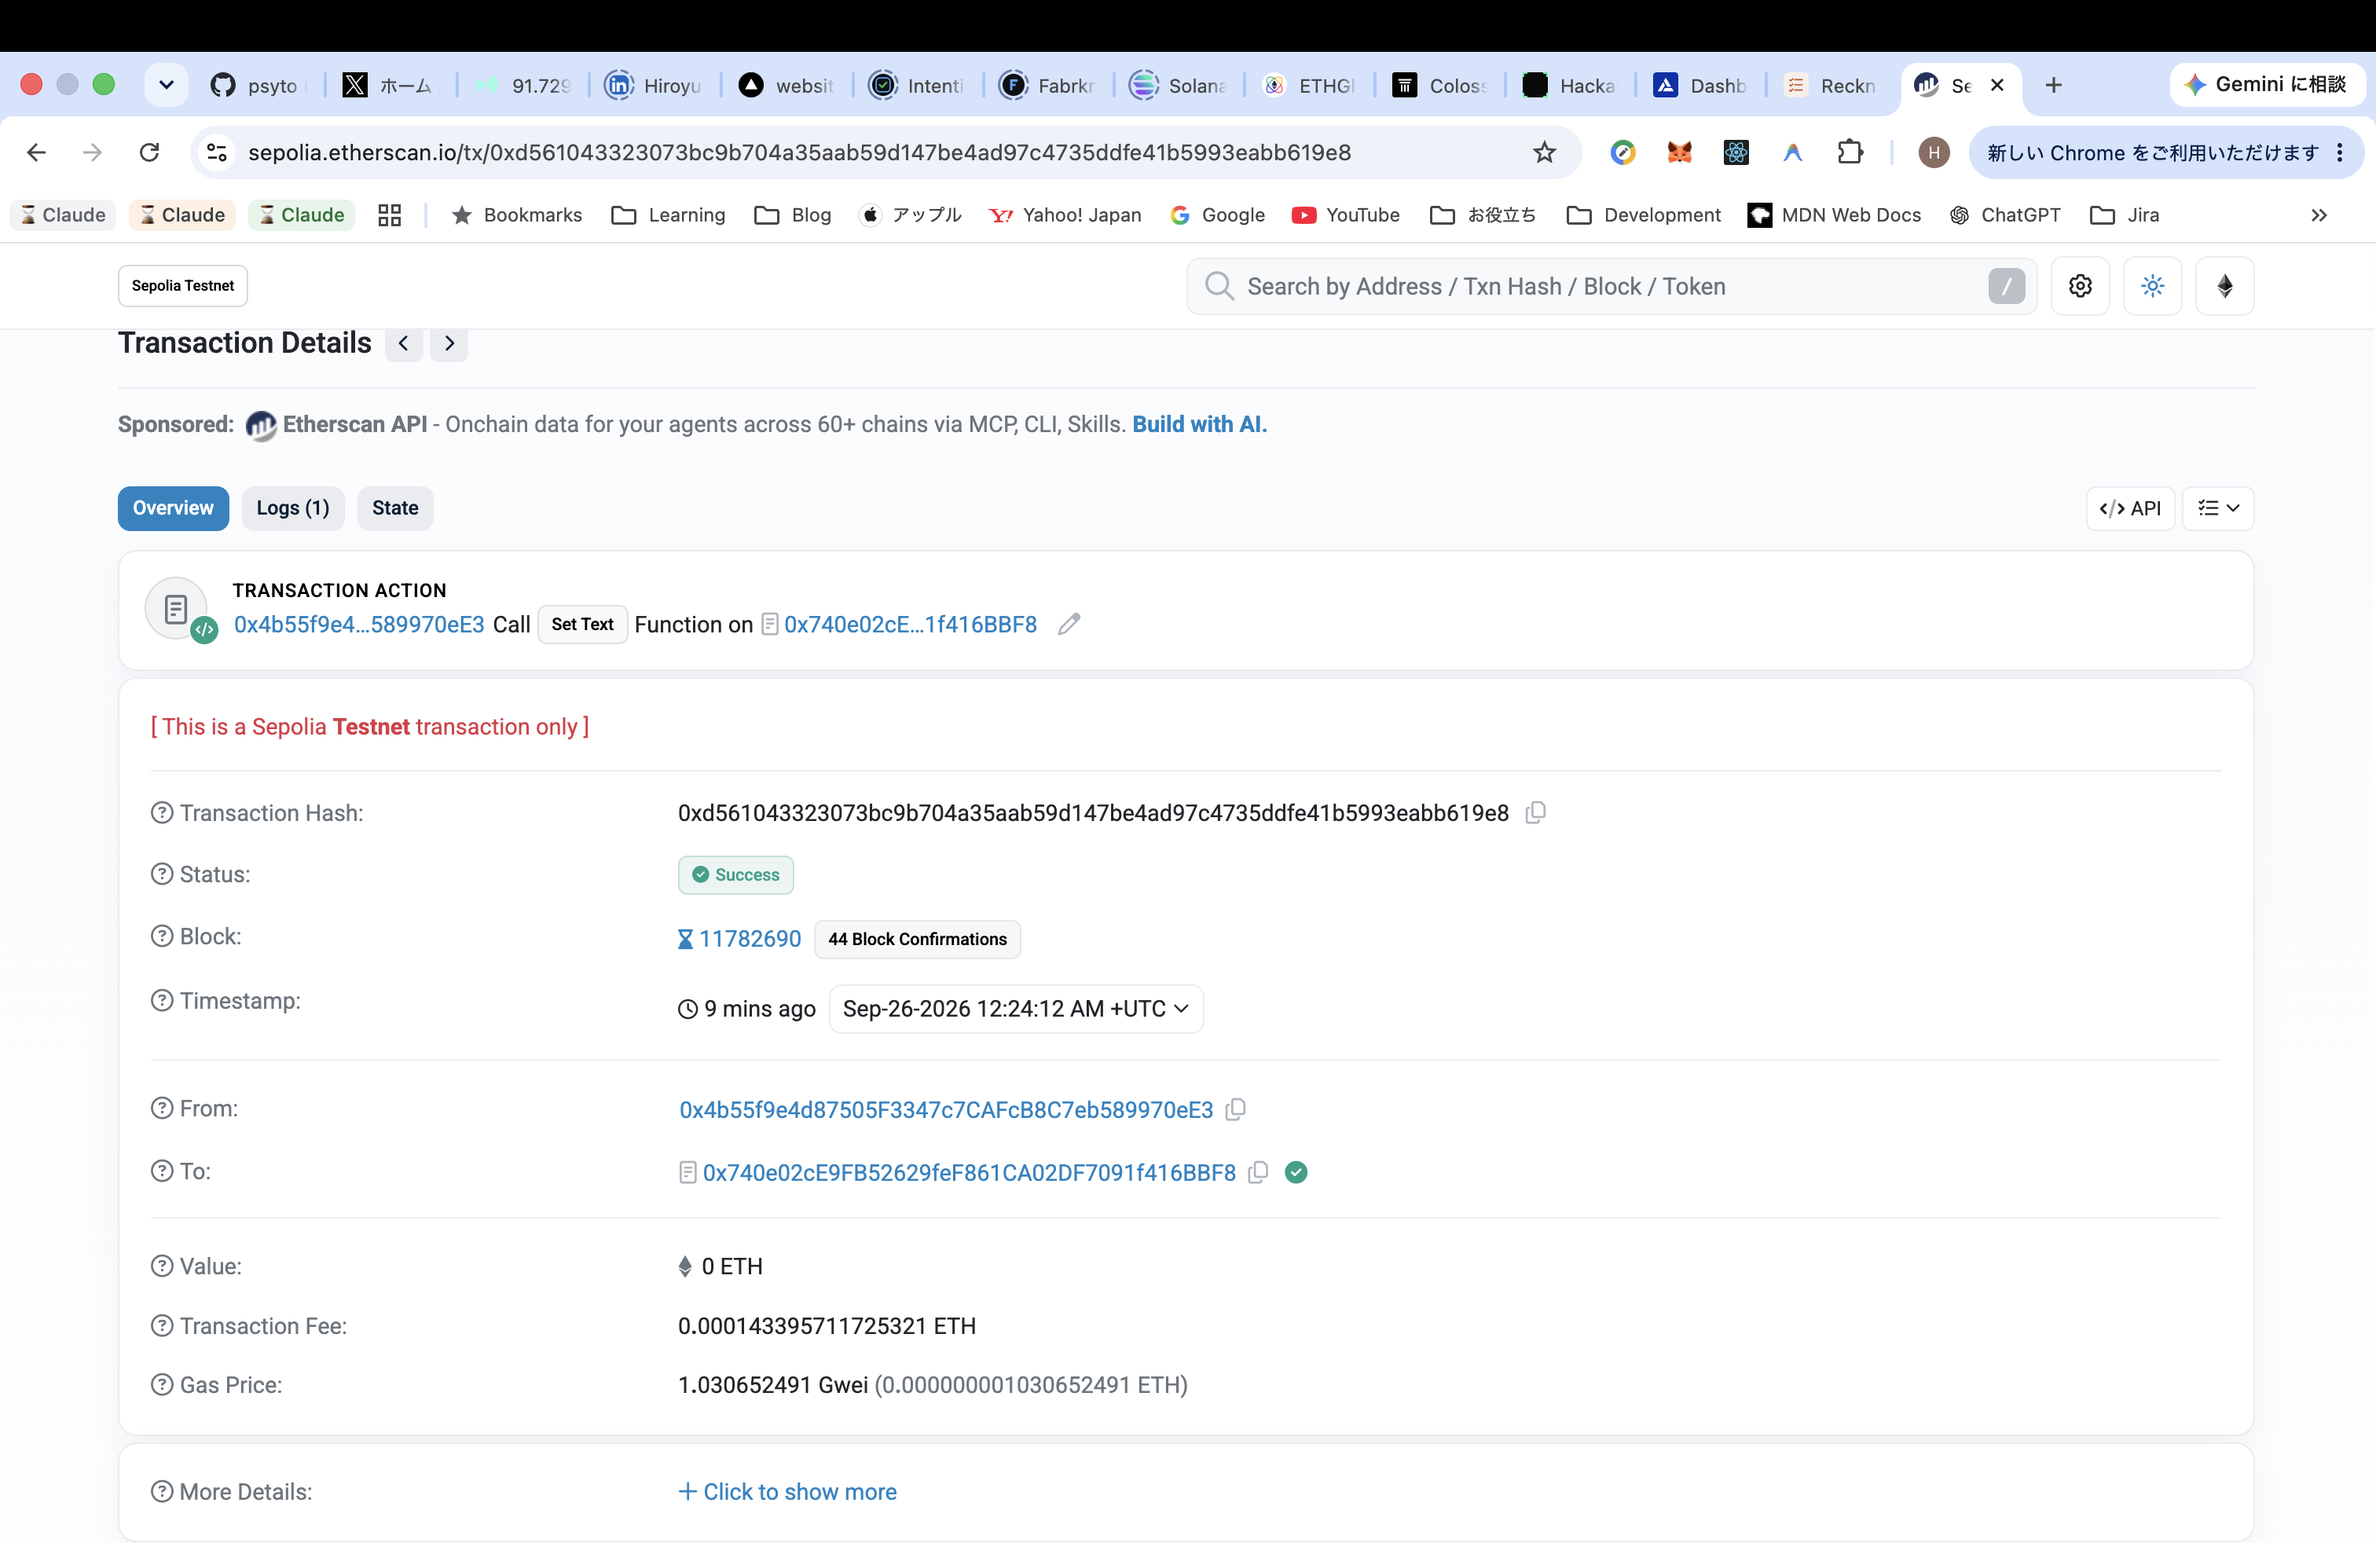
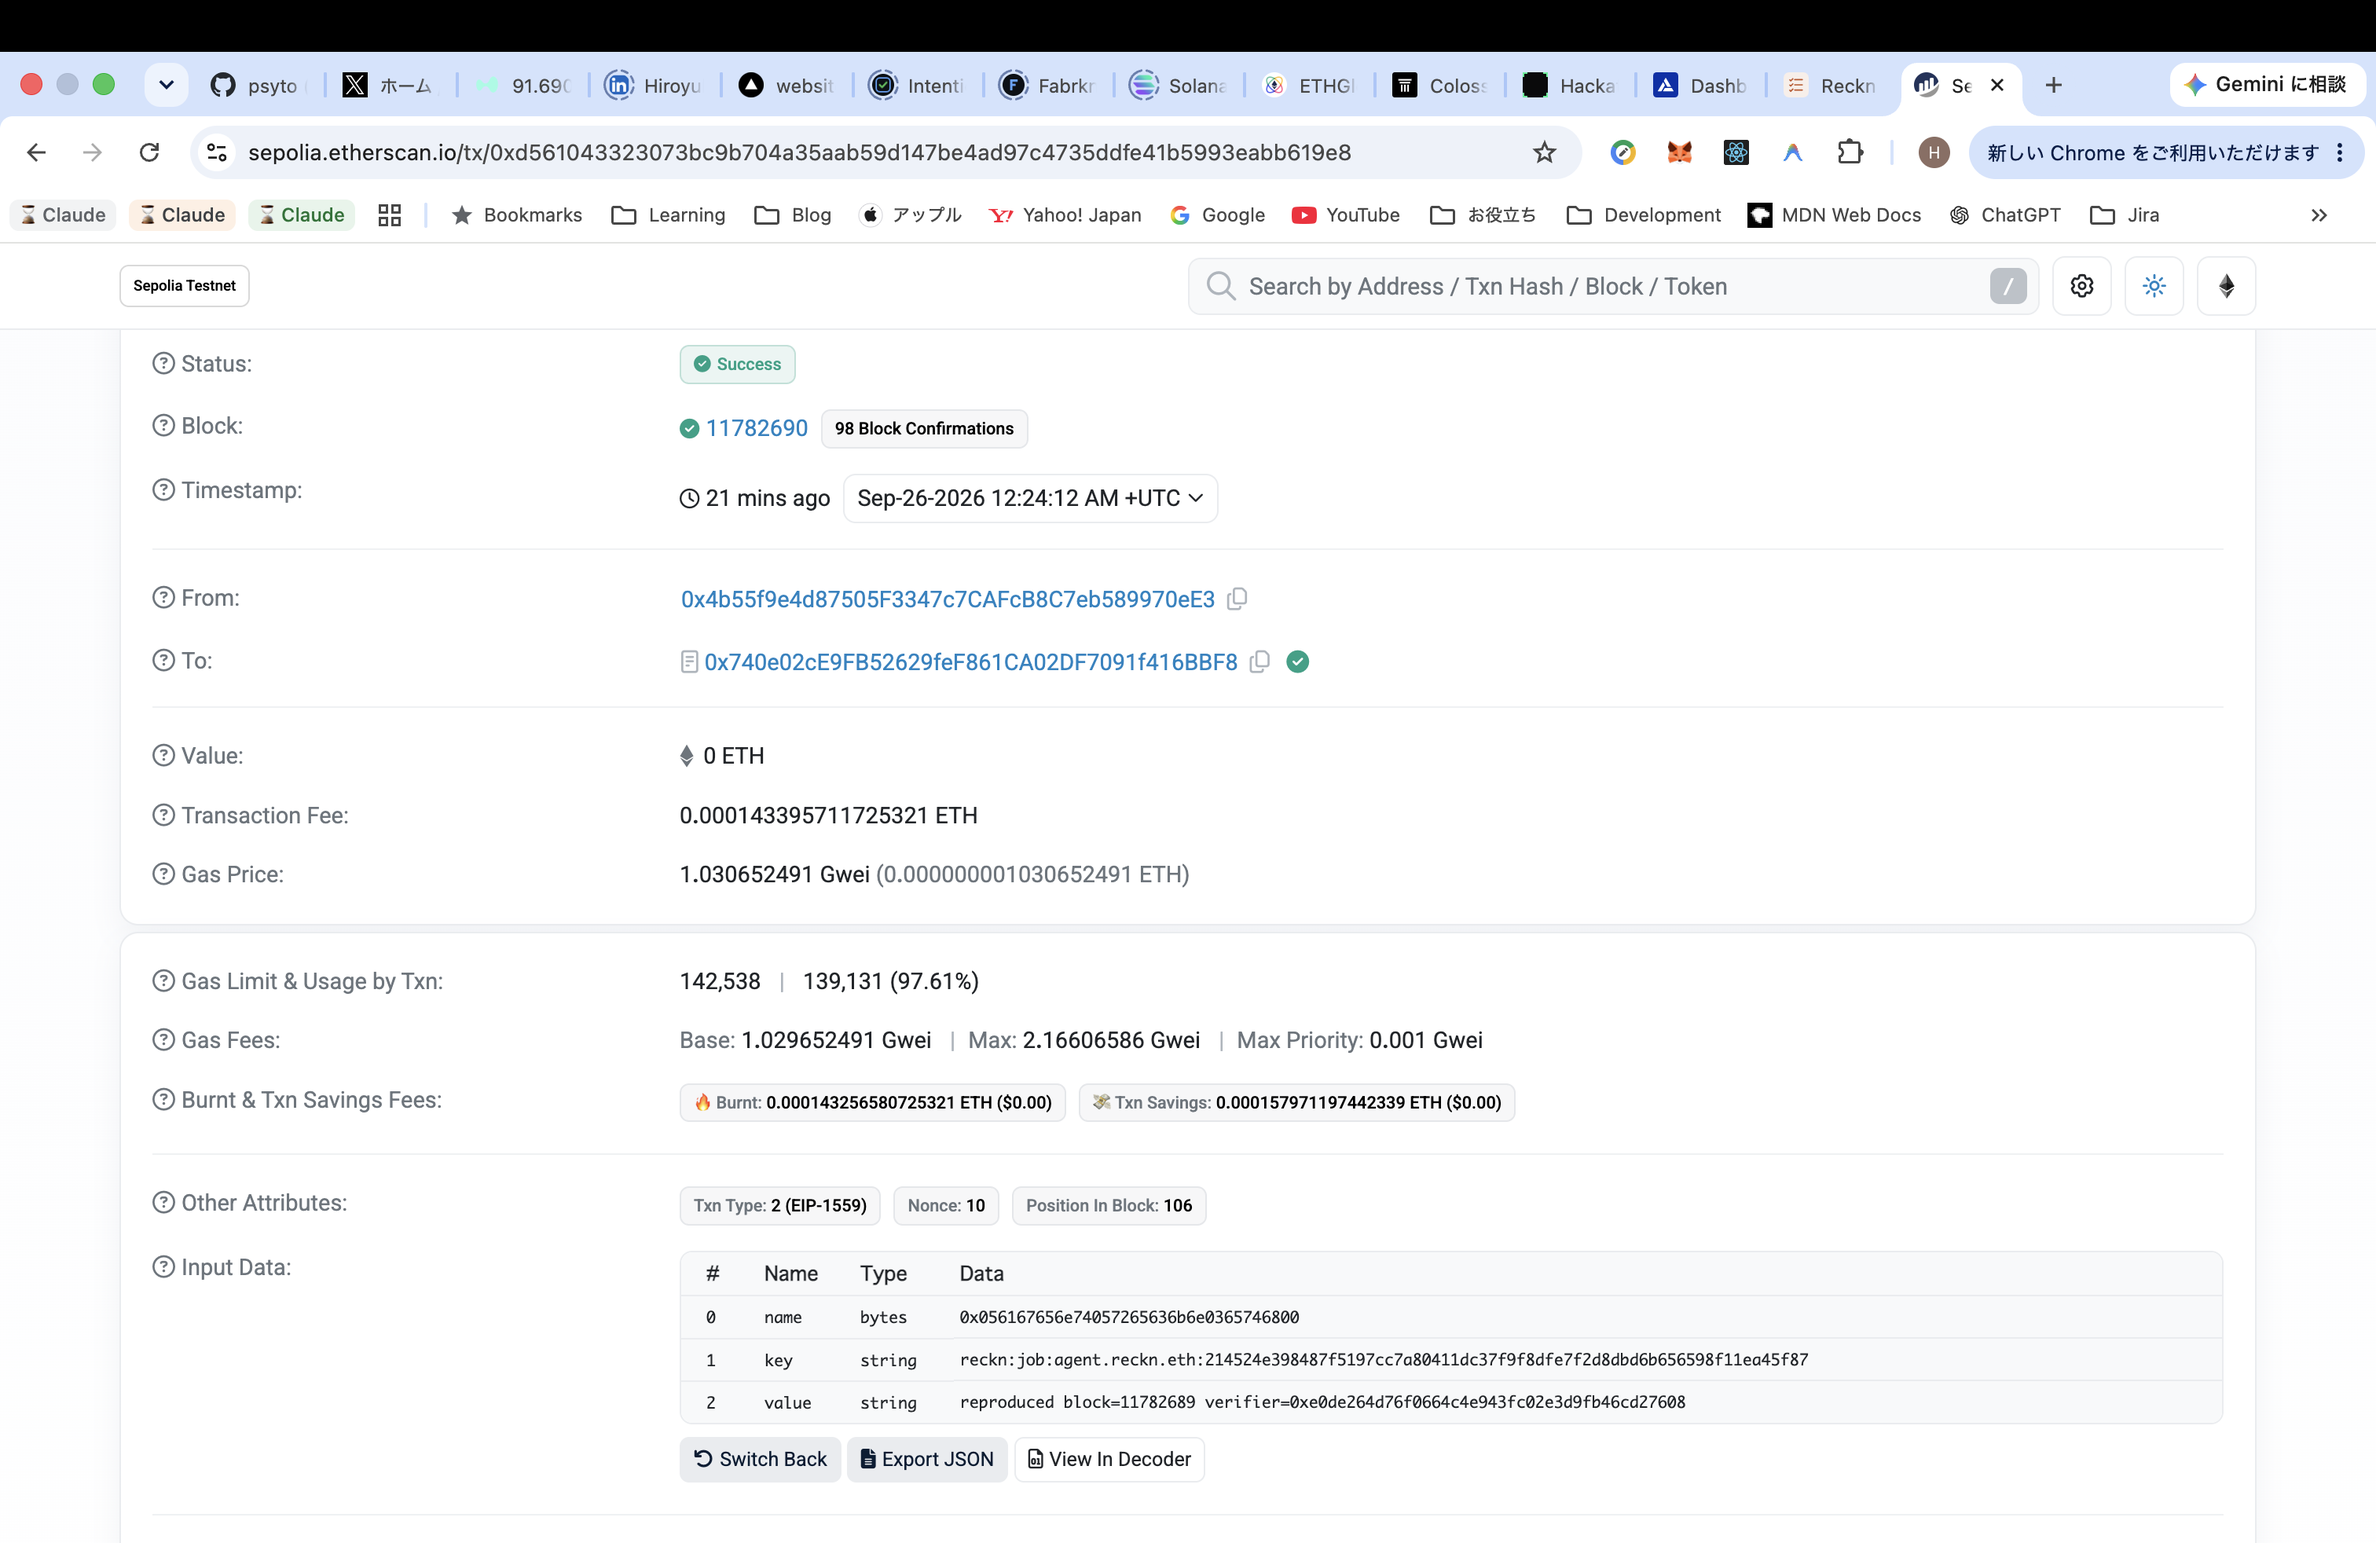
tokyo: the write, decoded too, so the pair differs in one row
beat5-02 and beat5-04 are now the same three-row table with exactly one
row different: value = "reproduced block=11782689 verifier=0xe0de264d…"
against value = empty. Same key in both, and that key carries
agent.reckn.eth, which is the 09-26 scope fix visible in a frame instead
of asserted in a caption.

RECEIPTS.md's note becomes a two-row table rather than a paragraph
apologising for what the frames could not show.

diff --git a/docs/tokyo-2026/RECEIPTS.md b/docs/tokyo-2026/RECEIPTS.md
@@ -213,7 +213,7 @@ no-op and would prove nothing.
 
 ![A swap with no record: Fail, execution reverted. Sent by the agent to the router.](media/beat5-01-swap-refused.png)
 
-![The buyer writes the record -- Set Text on our resolver. This is the only thing that changes between the frame above and the frame below.](media/beat5-02-buyer-writes-the-record.png)
+![The buyer writes the record. Decoded: key = reckn:job:agent.reckn.eth:214524e3..., value = reproduced block=11782689 verifier=0xe0de264d...](media/beat5-02-buyer-writes-the-record.png)
 
 ![The same swap, now Success, with two ERC-20 transfers: 1 Reckn Demo B out and 0.987158034 Reckn Demo A back.](media/beat5-03-swap-executes.png)
 
@@ -225,12 +225,18 @@ no-op and would prove nothing.
 same router, same pool, same amounts. Between them sit the two writes, and nothing else changed
 — and the record could only be written because a job was re-executed, reproduced and settled.
 
-**The clear is shown decoded, because the overview cannot show it.** A `Set Text` that writes
-and a `Set Text` that erases are the same picture on etherscan's summary — same sender, same
-resolver, same green `Success`. The difference is the value, and the value is in the input data.
-So that frame is the decoded table, where `value` is visibly empty and `key` visibly carries the
-name it belongs to. The write above it is still the summary view; its content is not in that
-frame, it is in beat 3, where ENS reads the record back.
+**Both writes are shown decoded, and that is the point of showing them at all.** On etherscan's
+summary a `Set Text` that writes and a `Set Text` that erases are the same picture: same sender,
+same resolver, same green `Success`. The difference lives in the input data. Decoded, the two
+frames are the same three-row table and **exactly one row differs**:
+
+| | `key` | `value` |
+|---|---|---|
+| writes | `reckn:job:agent.reckn.eth:214524e3…` | `reproduced block=11782689 verifier=0xe0de264d…` |
+| clears | `reckn:job:agent.reckn.eth:214524e3…` | |
+
+The key carries the name it belongs to, which is what stops a grant being aimed at somebody
+else's name. That is visible in the frame rather than asserted in a caption.
 
 #### The transactions
 
